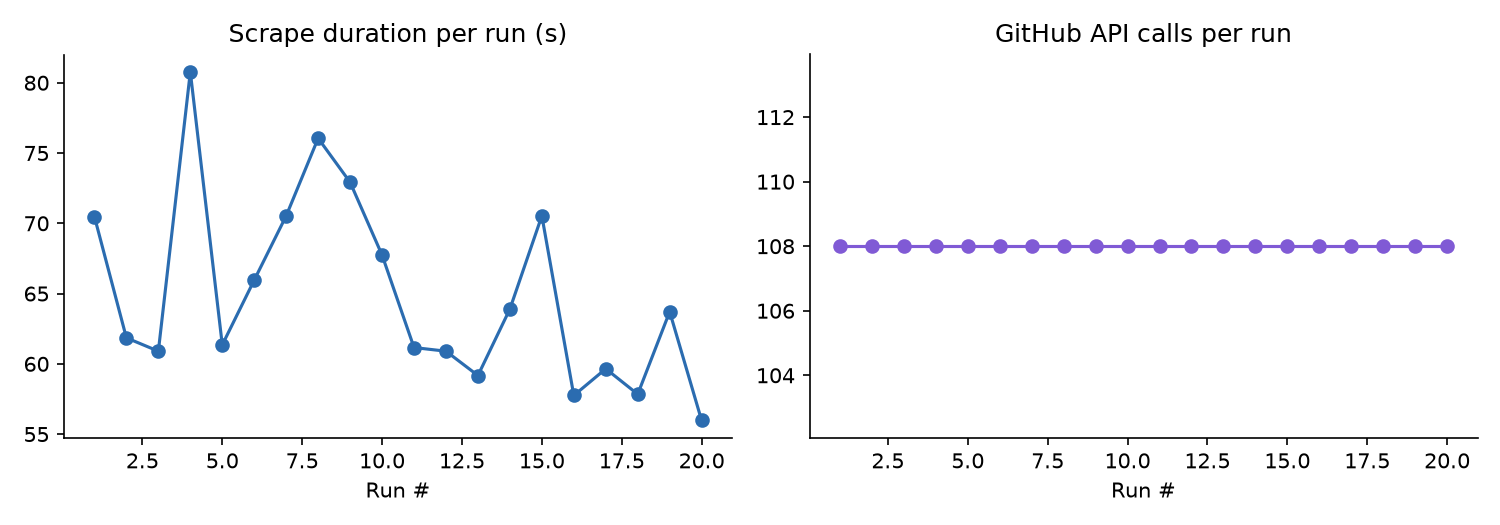
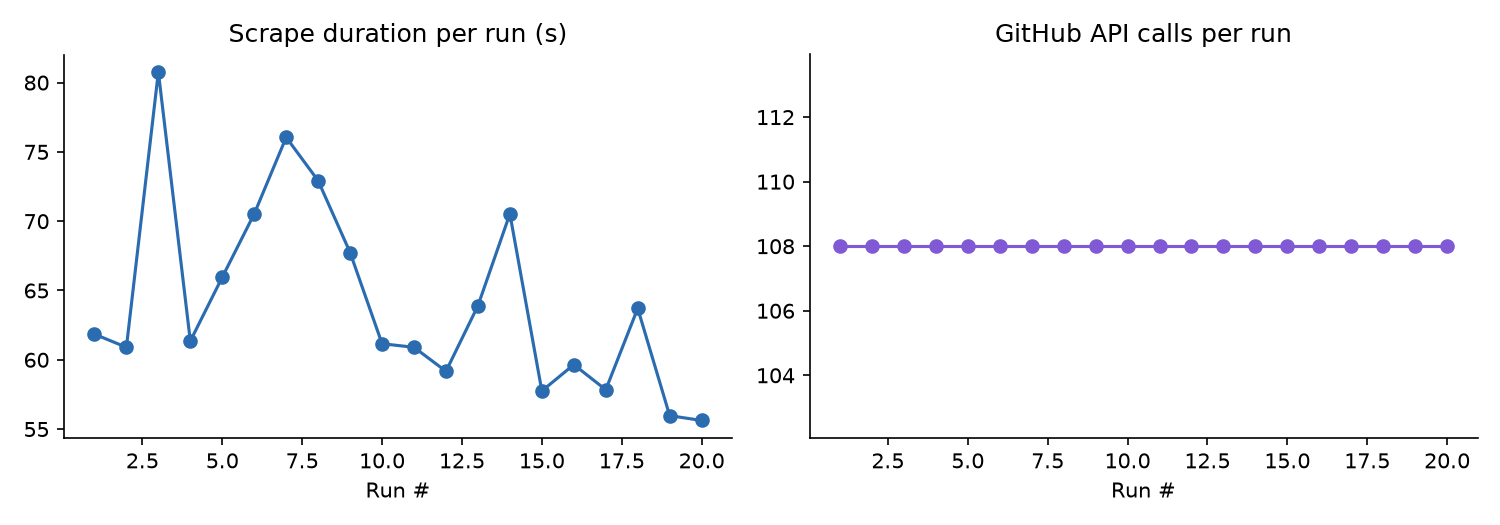
Weekly issue tracker refresh

diff --git a/README.md b/README.md
@@ -81,7 +81,7 @@ See [CONTRIBUTING.md](CONTRIBUTING.md) for the full contributor workflow — inc
 
 <!-- TRACKER:START -->
 
-_Last updated: 2026-08-03 23:29 UTC_
+_Last updated: 2026-08-03 23:55 UTC_
 
 _Tracking **18** upstream repos, **382** relevant open issues._
 
@@ -288,7 +288,7 @@ _Tracking **18** upstream repos, **382** relevant open issues._
 
 <!-- METRICS:START -->
 
-_Last run: 2026-08-03 23:28 UTC, took **56.0s**, **108** GitHub API calls, **4892/5000** rate limit remaining._
+_Last run: 2026-08-03 23:54 UTC, took **55.6s**, **108** GitHub API calls, **4784/5000** rate limit remaining._
 
 ![Scrape metrics trend](assets/metrics_trend.png)
 
